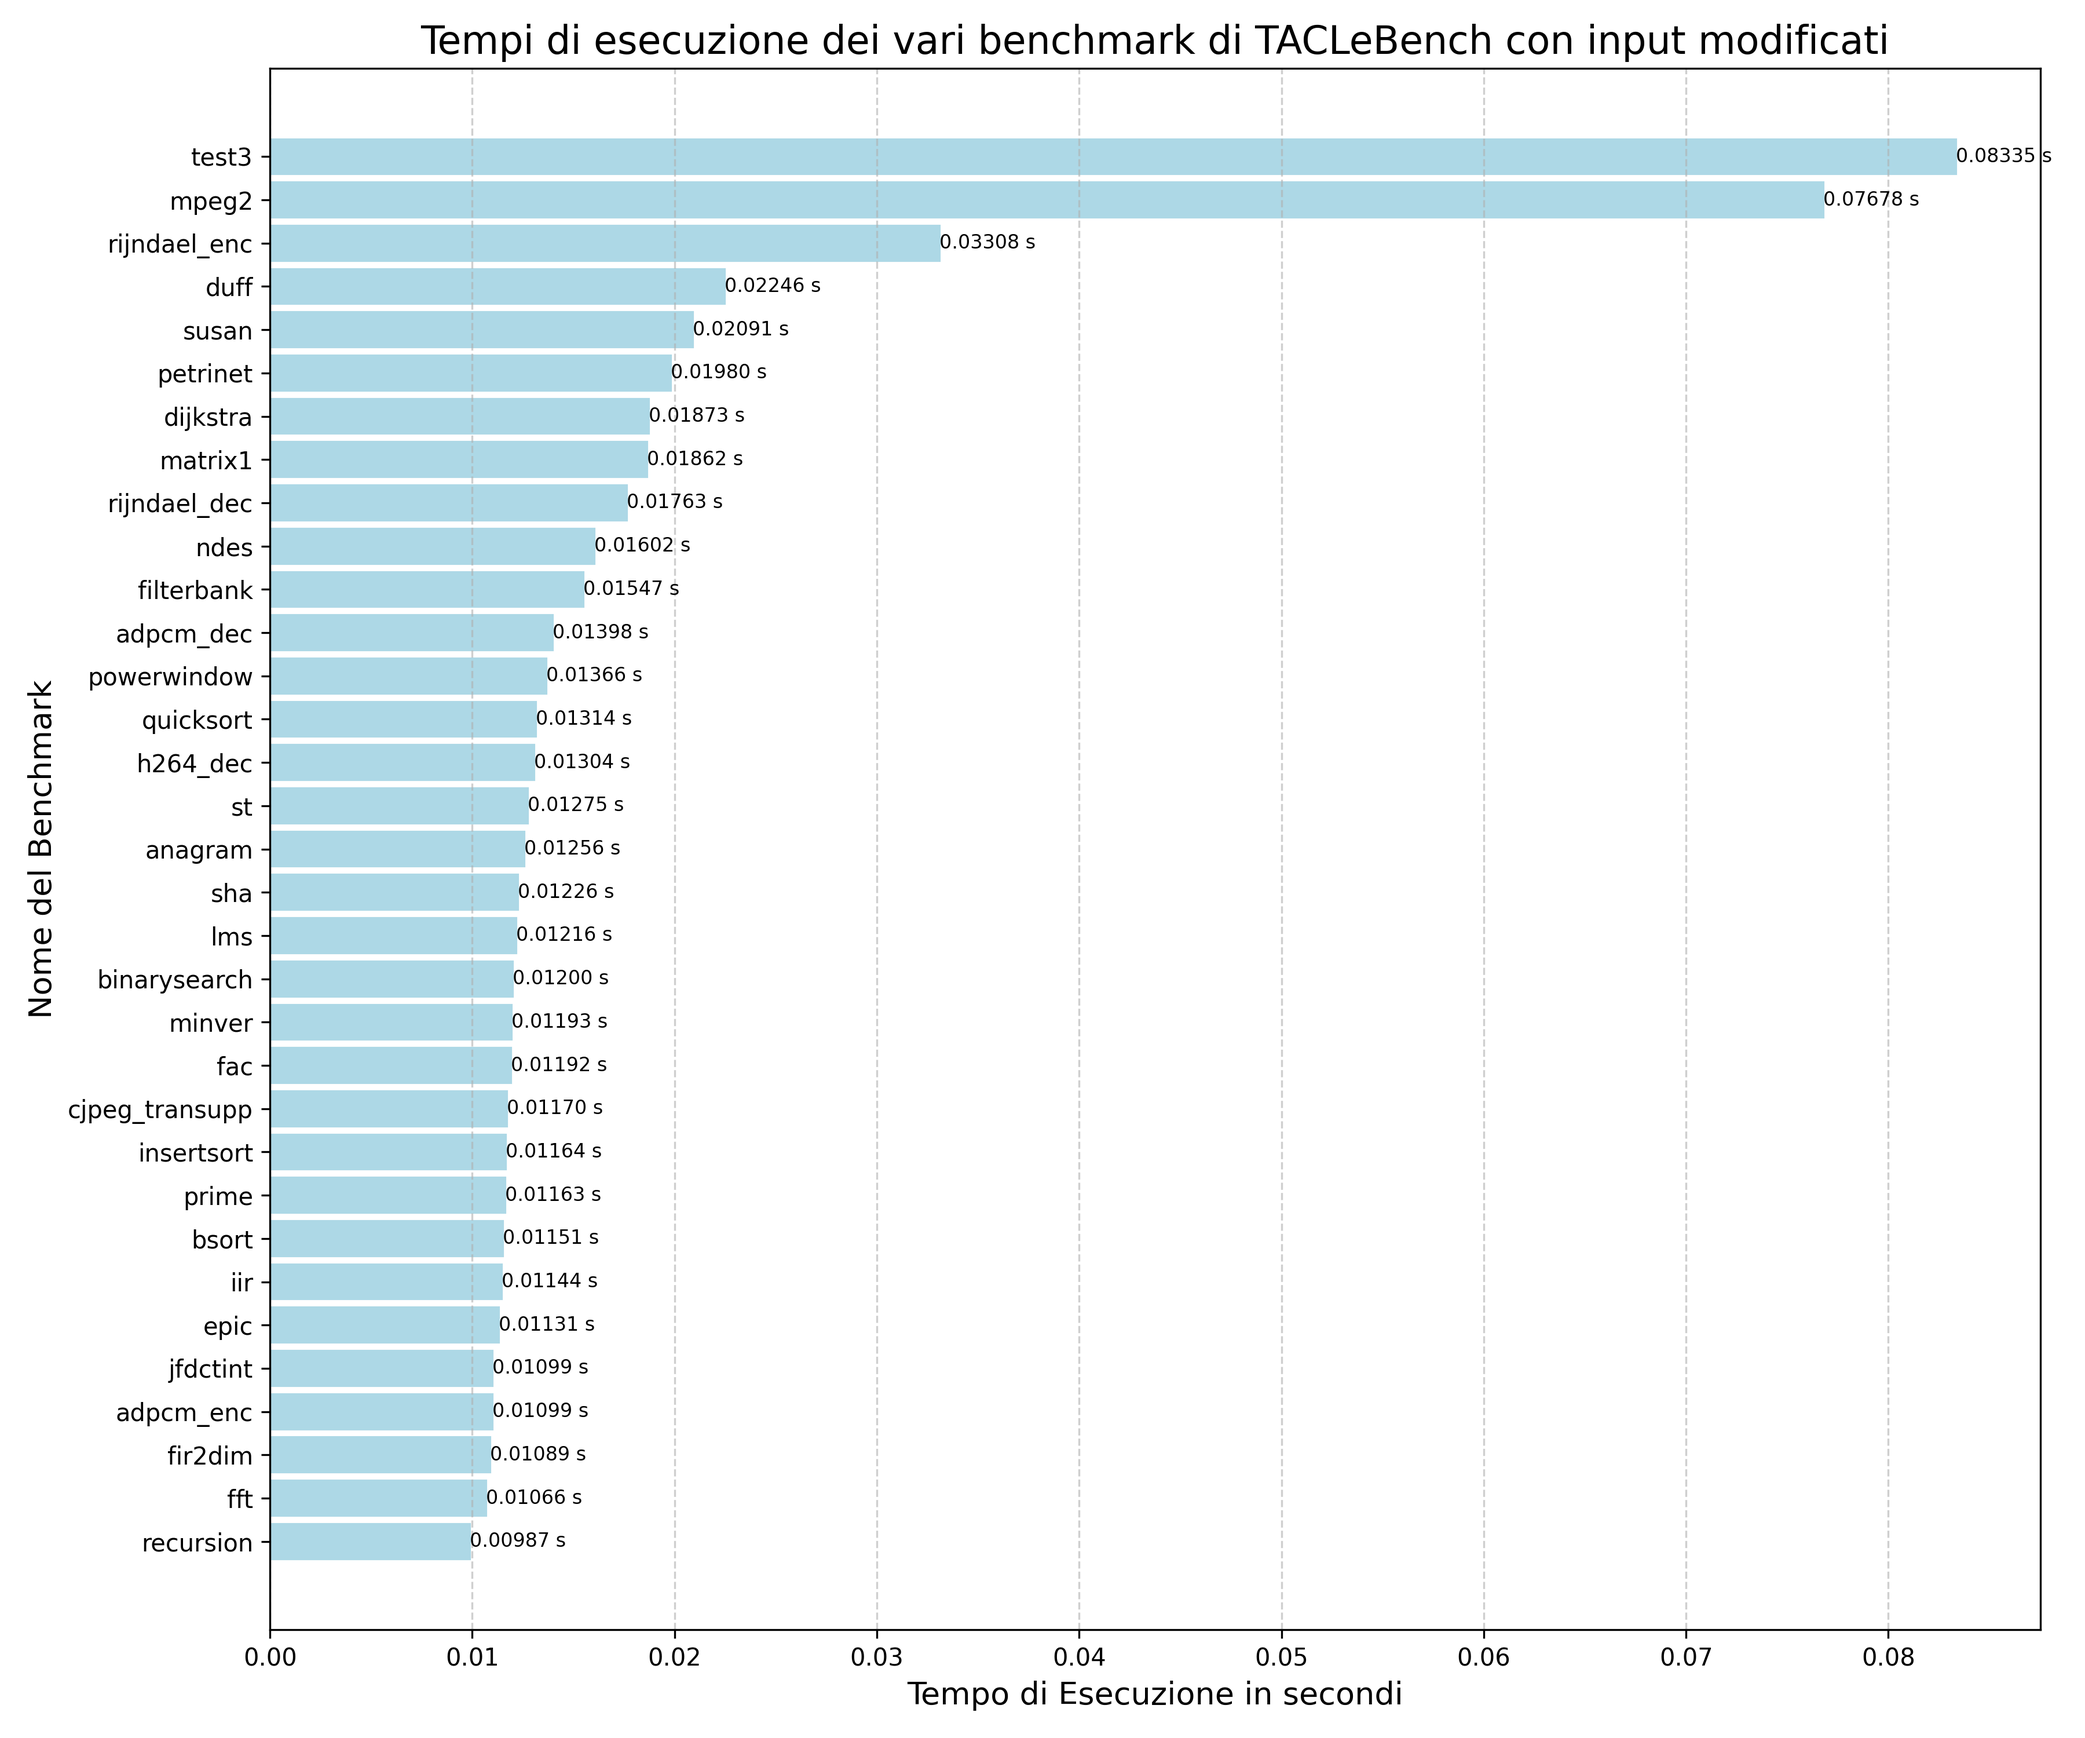
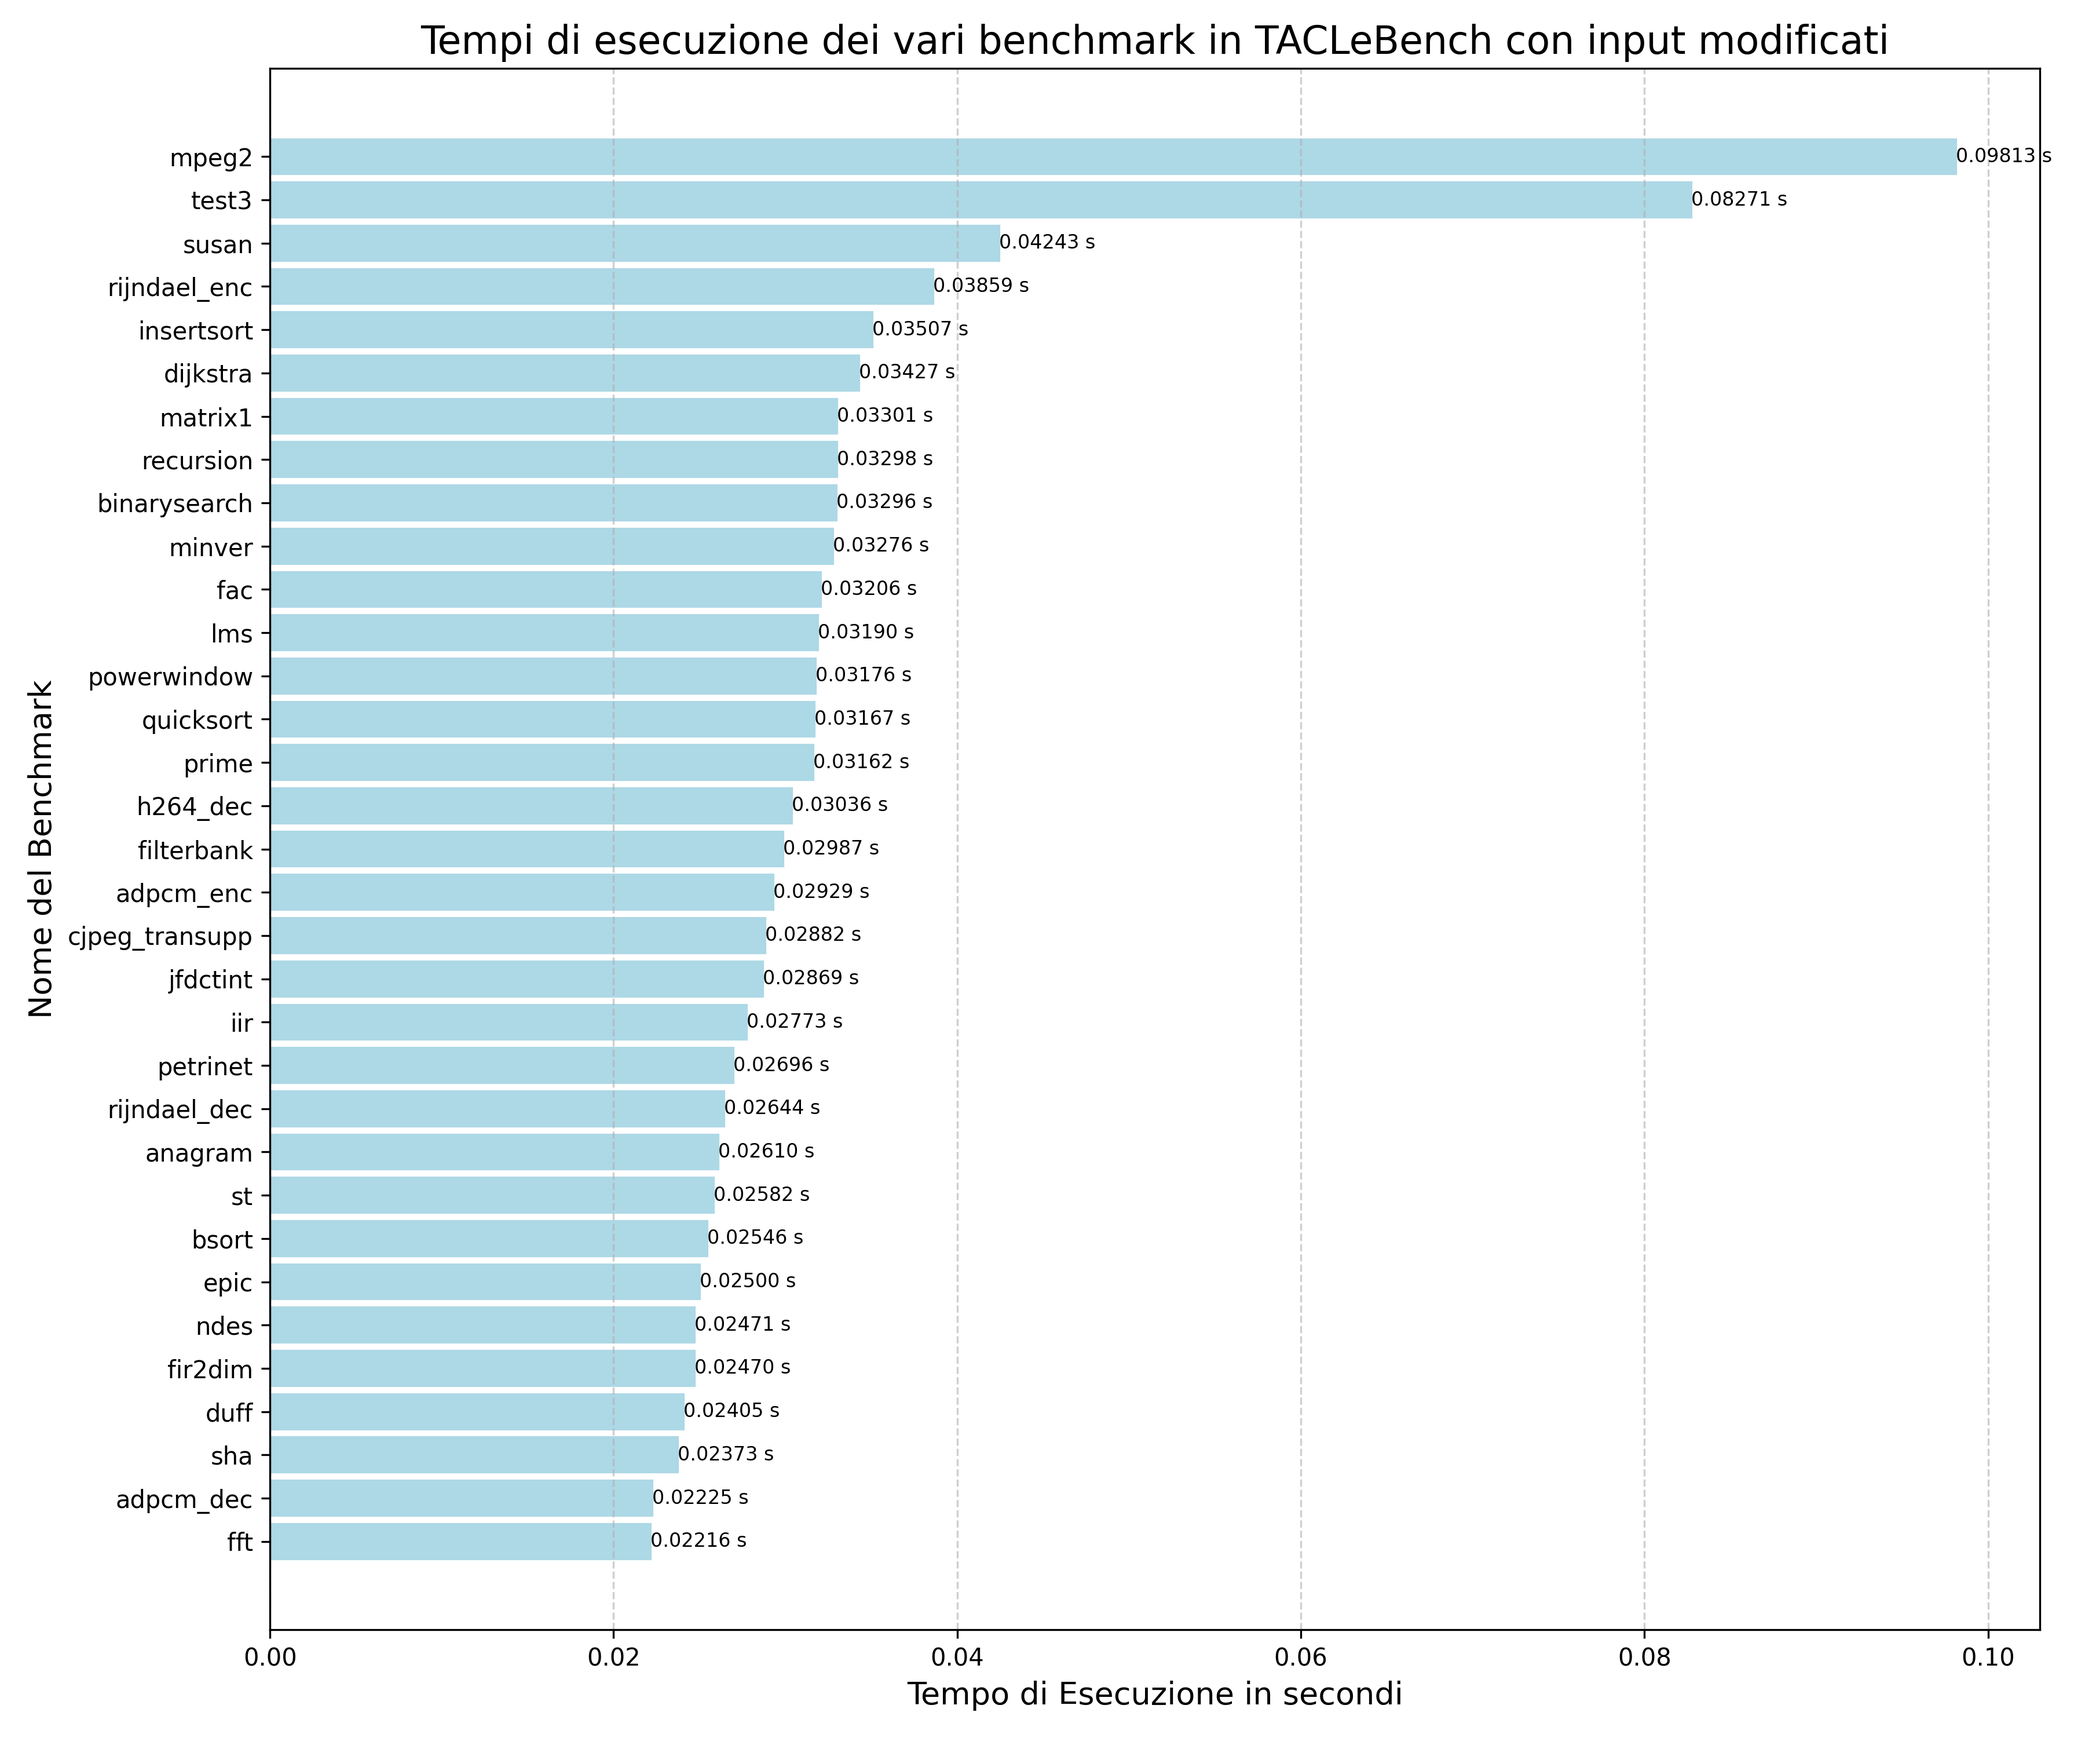
Small changes

diff --git a/Con input modificati/calcolo_tempi_esecuzione.py b/Con input modificati/calcolo_tempi_esecuzione.py
@@ -113,7 +113,7 @@ def plot_barchart(name_csv_file):
 
     plt.xlabel('Tempo di Esecuzione in secondi', fontsize=13)
     plt.ylabel('Nome del Benchmark', fontsize=13)
-    plt.title('Tempi di esecuzione dei vari benchmark di TACLeBench con input modificati', fontsize=16)
+    plt.title('Tempi di esecuzione dei vari benchmark in TACLeBench con input modificati', fontsize=16)
     
     # Si aggiunge una griglia verticale
     plt.grid(axis='x', linestyle='--', alpha=0.6)
